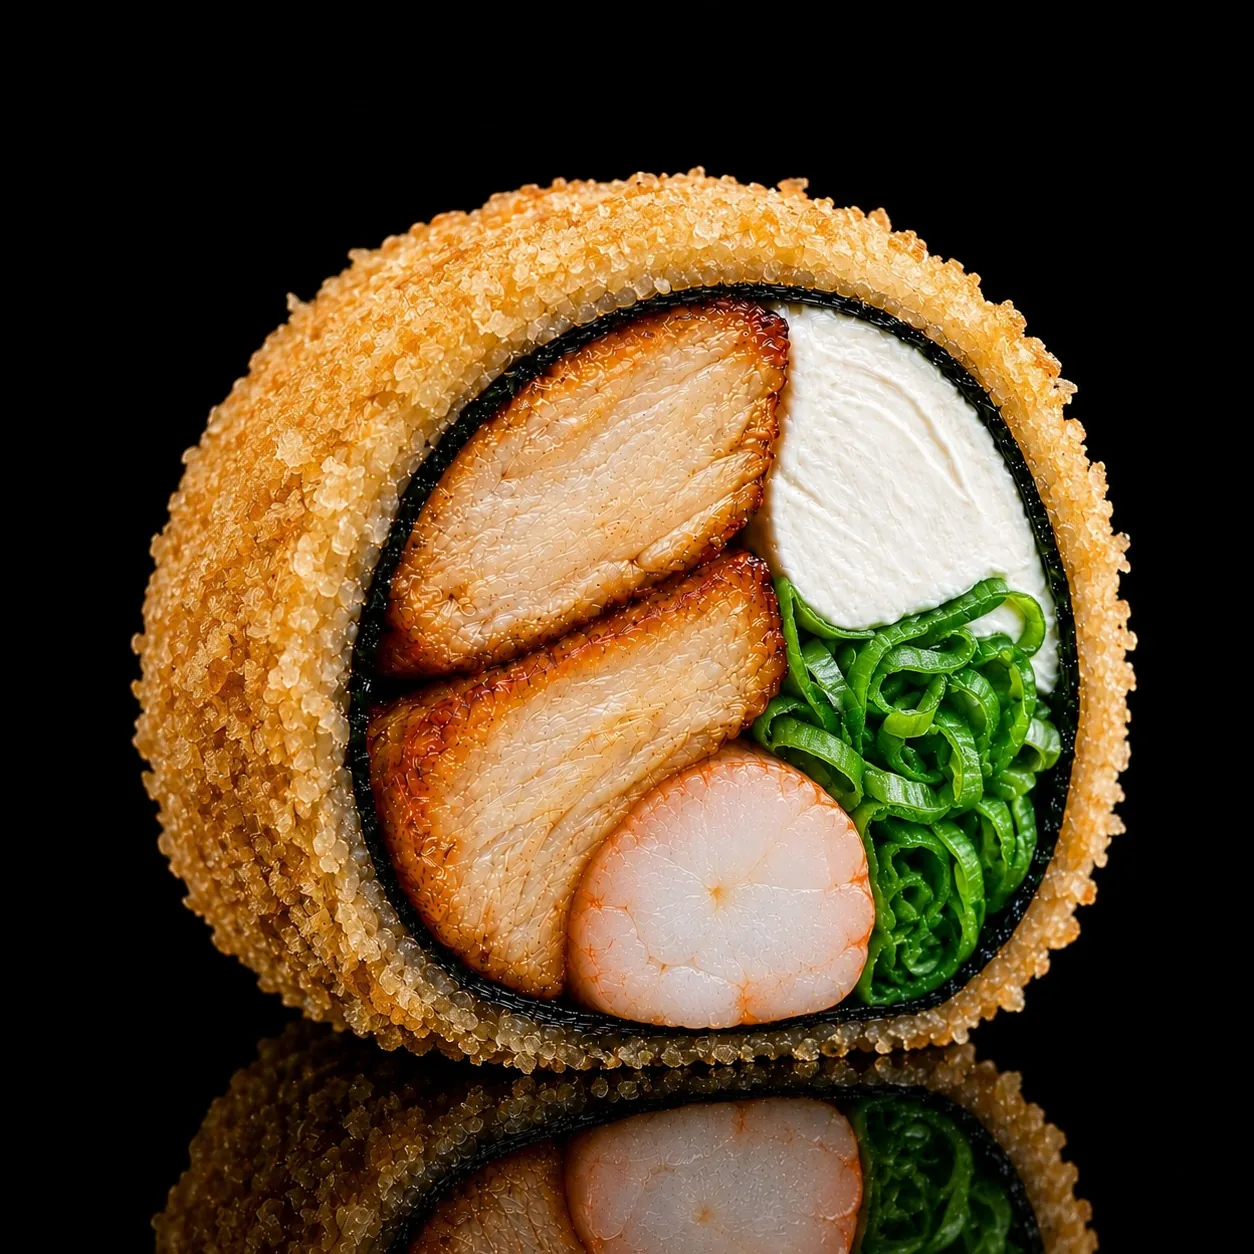
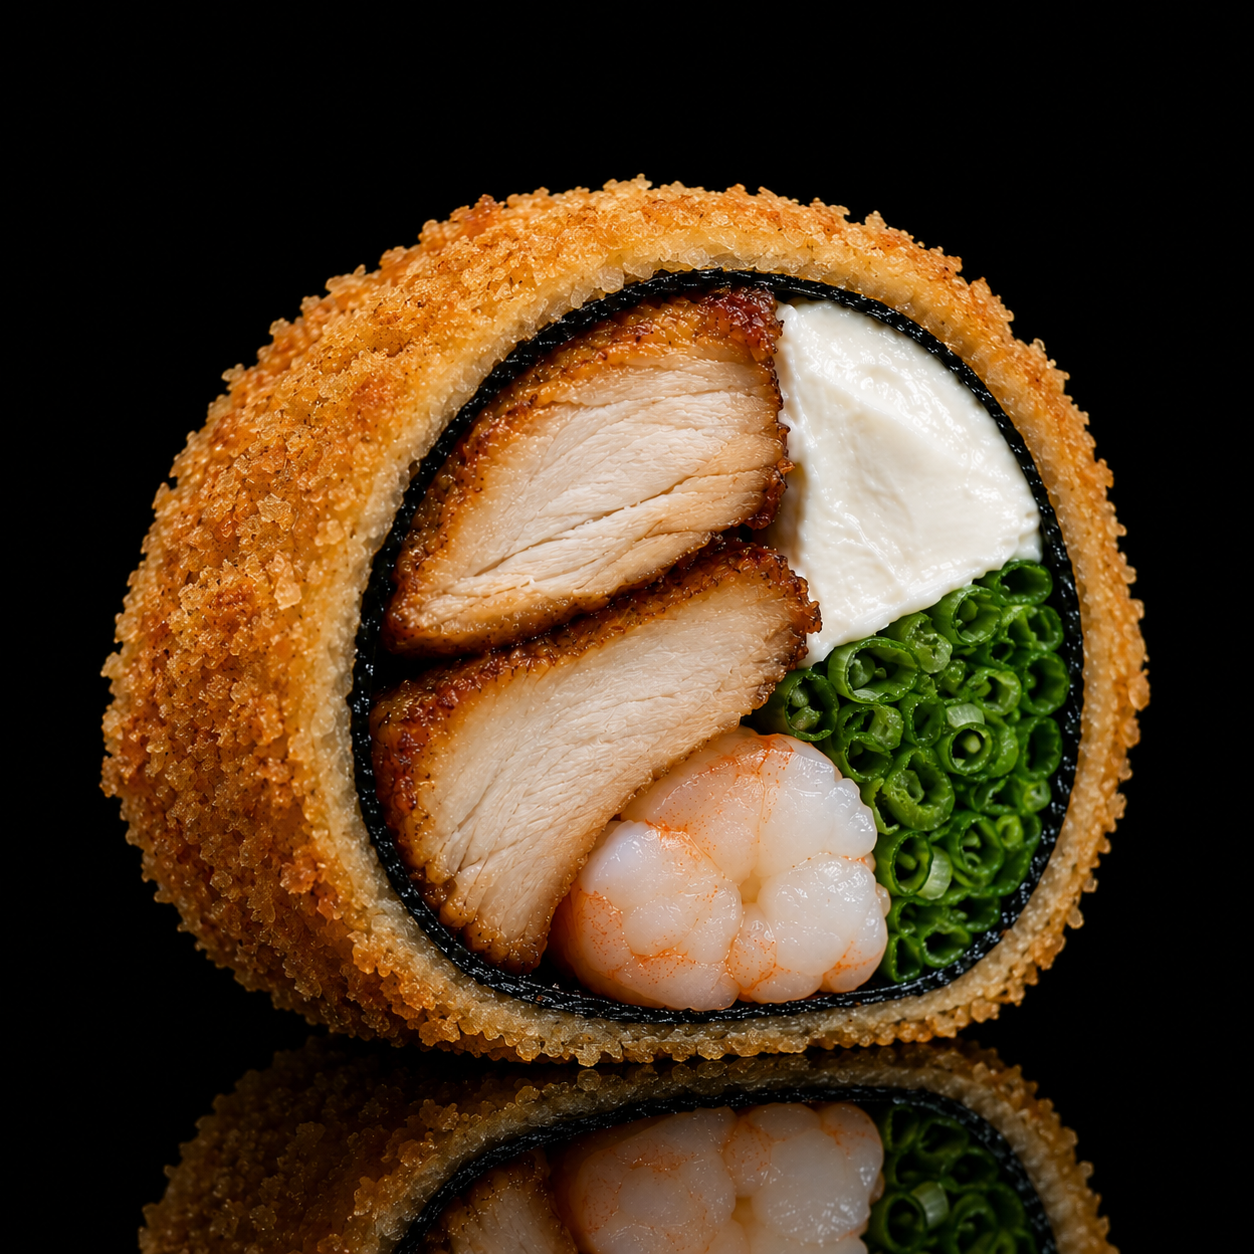
fix

diff --git a/src/data/productos.ts b/src/data/productos.ts
@@ -30,6 +30,7 @@ import vegiOrientalImg from "@/public/images/NuevasImagenes/SinArroz/VegiOrienta
 import CaliforniaVegetarianoImg from "@/public/images/NuevasImagenes/vegetariano/CaliforniaVegetariano.webp";
 import FunjiRollImg from "@/public/images/NuevasImagenes/vegetariano/FunjiRoll.webp";
 import FunjiPankoImg from "@/public/images/NuevasImagenes/vegetariano/FunjiPanko.webp";
+import FunjiAlmondPankoImg from "@/public/images/NuevasImagenes/vegetariano/FunjyAlmodnPanko.png";
 import MazorcaRollImg from "@/public/images/NuevasImagenes/vegetariano/MazorcaRoll.webp";
 import CaliforniaVeganoImg from "@/public/images/NuevasImagenes/vegetariano/CaliforniaVegano.webp";
 import PalmaRollImg from "@/public/images/NuevasImagenes/vegetariano/PalmaRoll.webp";
@@ -175,7 +176,6 @@ const PROTEINAS: ProductoOpcion[] = [
   { id: "camaron",         label: "Camarón" },
   { id: "pollo",           label: "Pollo" },
   { id: "champinon",       label: "Champiñón" },
-  { id: "ostion",          label: "Ostión" },
   { id: "salmon_ahumado",  label: "Salmón ahumado" },
   { id: "mechada",         label: "Carne mechada" },
 ];
@@ -383,7 +383,7 @@ const _productos: Producto[] = [
     { id: 41, codigo: "041", nombre: "Palma Roll", descripcion: "Palmito - Palta - Cebollin - En palta.", valor: 5990, imagen: PalmaRollImg, categoria: "Rolls vegetarianos" },
     { id: 42, codigo: "042", nombre: "Mazorca roll", descripcion: "Choclo baby - Queso crema - Palta - En palta.", valor: 5990, imagen: MazorcaRollImg, categoria: "Rolls vegetarianos" },
     { id: 43, codigo: "043", nombre: "Funji Roll", descripcion: "Champiñon - Palta - Cebollin - En queso crema.", valor: 6190, imagen: FunjiRollImg, categoria: "Rolls vegetarianos" },
-    { id: 44, codigo: "044", nombre: "Funji almond panko", descripcion: "Champiñon - Queso crema - Almendras - En panko.", valor: 6190, imagen: FunjiPankoImg, categoria: "Rolls vegetarianos" },
+    { id: 44, codigo: "044", nombre: "Funji almond panko", descripcion: "Champiñon - Queso crema - Almendras - En panko.", valor: 6190, imagen: FunjiAlmondPankoImg, categoria: "Rolls vegetarianos" },
     { id: 45, codigo: "045", nombre: "Funji cheese panko", descripcion: "Champiñon - Queso crema - Cebollin - En panko.", valor: 6190, imagen: FunjiPankoImg, categoria: "Rolls vegetarianos" },
 
 